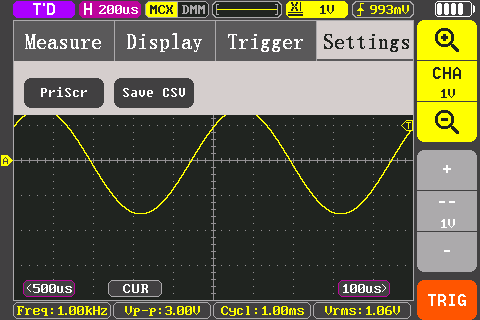
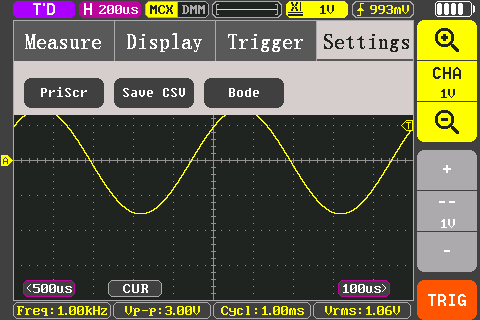
Manual: the Bode button on the scope's Settings tab
Claude-Session: https://claude.ai/code/session_01F6rJMj4mP2bbYiTEftoen7

Changed region(s): [[0.4062, 0.2188, 0.5938, 0.3438]]

diff --git a/docs/manual/README.ru.md b/docs/manual/README.ru.md
@@ -1592,6 +1592,7 @@ CH1, на той же оси времени: сигнал [Wave view](#wave-view
   sample**). Прибор показывает **Saved SCOP004.DLG**; на USB-диске это
   `SCOPE/SCOP004.CSV`.
 - **PriScr**: [снимок экрана](#снимки-экрана).
+- **Bode**: [диаграмма Боде](#диаграмма-боде).
 
 
 ![Вкладка Settings](img/scope-settings.png)

diff --git a/docs/manual/README.md b/docs/manual/README.md
@@ -1545,6 +1545,7 @@ is on, the edge trigger does not use the trigger hardware.
   otherwise). The meter shows **Saved SCOP004.DLG**; the USB disk shows it
   as `SCOPE/SCOP004.CSV`.
 - **PriScr**: a [screenshot](#screenshots).
+- **Bode**: the [Bode plot](#bode-plot).
 
 
 ![The Settings tab](img/scope-settings.png)
